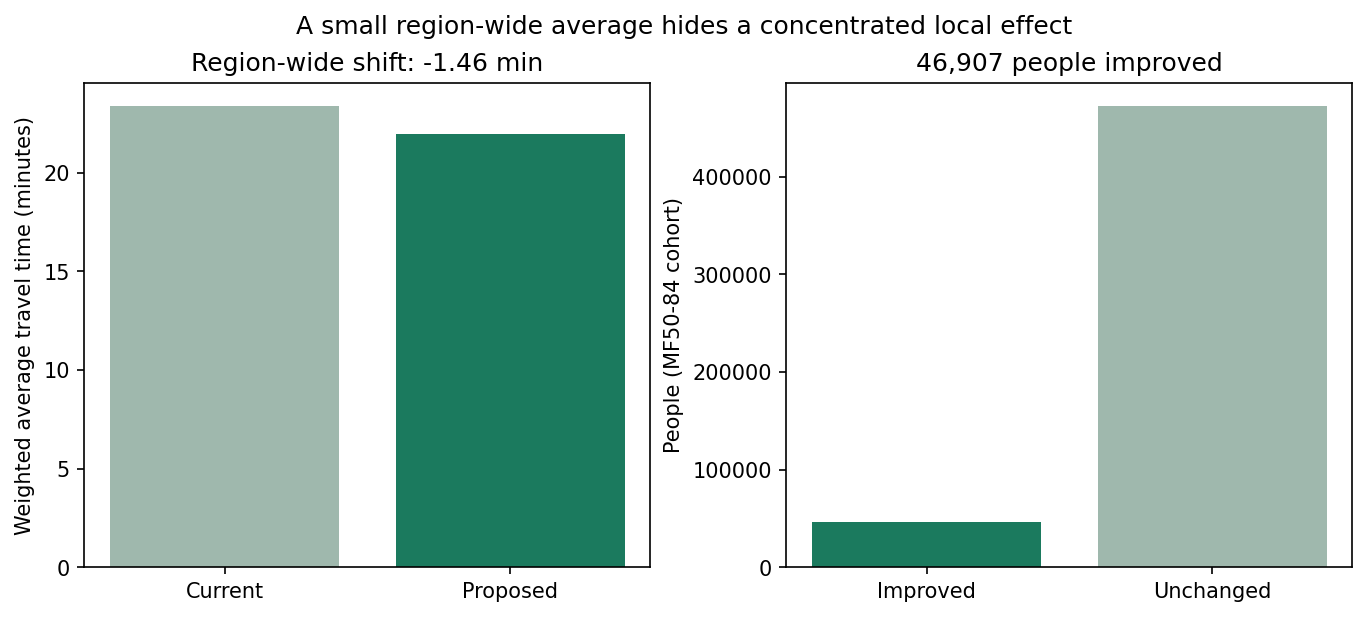
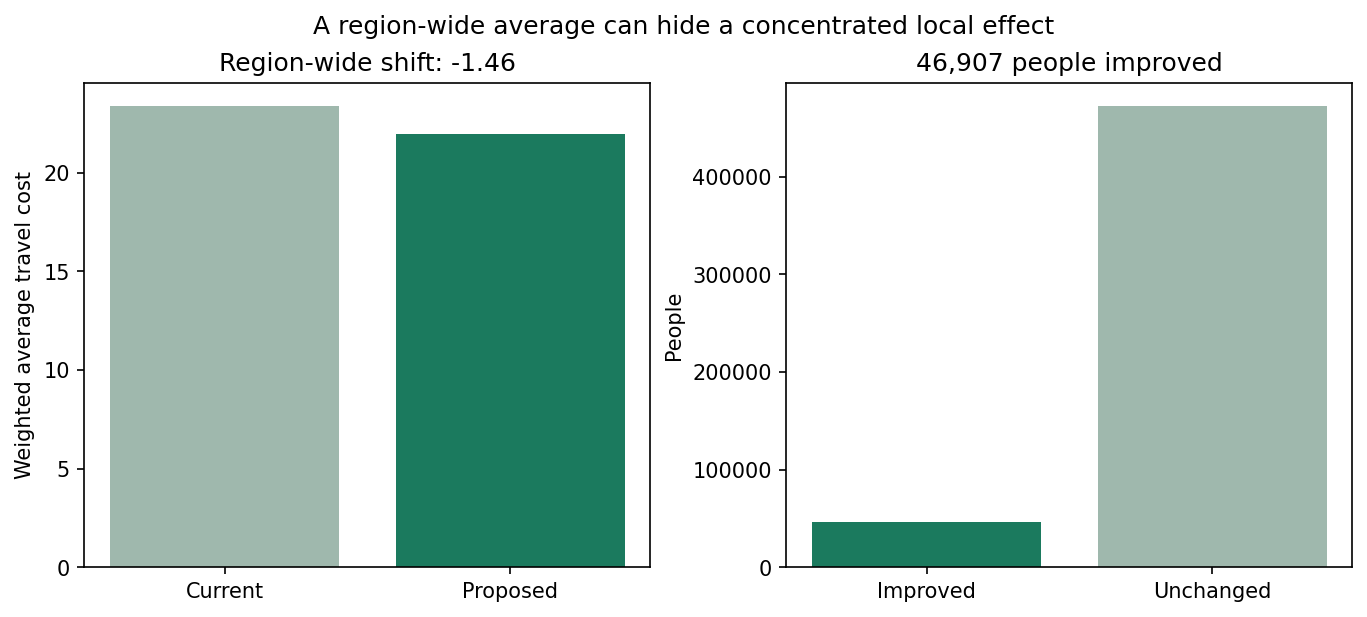
Add SolutionComparator.plot_population_impact_summary()
Extracts the population_impact notebook's hand-rolled two-panel bar
chart (region-wide weighted_average shift vs. per-region impact) into
a reusable plotting method, so the "dilution" visualisation isn't
notebook-only boilerplate.

diff --git a/lokigi/mixins/solution_comparator_plots.py b/lokigi/mixins/solution_comparator_plots.py
@@ -1,4 +1,8 @@
+import matplotlib.pyplot as plt
+import pandas as pd
+
 from lokigi.plot_utils import plot_solution_sets_comparison
+from lokigi.utils import _select_solution
 
 
 class SolutionComparatorPlotsMixin:
@@ -84,3 +88,117 @@ class SolutionComparatorPlotsMixin:
             title_fontsize=title_fontsize,
             **shared_plot_kwargs,
         )
+
+    def plot_population_impact_summary(
+        self,
+        by="demand",
+        matrix=None,
+        demand=None,
+        meaningful_change_threshold=0.0,
+        config_a=None,
+        config_b=None,
+        colors=("#9fb8ad", "#1b7a5e"),
+        figsize=(9, 4),
+        title="default",
+        ax=None,
+    ):
+        """
+        Two-panel bar chart pairing `population_impact_summary()`'s
+        region-wide and per-region views: the `weighted_average` shift
+        between `set_a` (baseline) and `set_b` (candidate) on the left,
+        against how many people (or regions) actually experienced a
+        change on the right. Makes visible the "dilution" a region-wide
+        average alone can hide -- a large, genuinely local effect can
+        move `weighted_average` by very little once averaged across
+        everyone else who is unaffected by it.
+
+        Parameters
+        ----------
+        by : {"demand", "regions"}, default "demand"
+            Whether the right-hand panel counts people
+            (`demand_improved`/`demand_unchanged`, demand-weighted) or
+            regions (`regions_improved`/`regions_unchanged`). "demand"
+            raises `ValueError` if no demand data is registered on the
+            problem, matching `site_allocation_summary()`'s `by="demand"`
+            behaviour; "regions" always works.
+        matrix, demand, meaningful_change_threshold, config_a, config_b
+            Passed straight through to `population_impact_summary()`.
+        colors : (str, str), default ("#9fb8ad", "#1b7a5e")
+            `(unchanged_color, changed_color)`. The left panel always
+            colours `set_a` with `unchanged_color` and `set_b` with
+            `changed_color`; the right panel colours the "improved" bar
+            with `changed_color` and "unchanged" with `unchanged_color`.
+        figsize : tuple, default (9, 4)
+            Figure size, ignored if `ax` is given.
+        title : str, default "default"
+            Overall figure title. If "default", an automatic title is
+            generated.
+        ax : (matplotlib.axes.Axes, matplotlib.axes.Axes), optional
+            A pair of existing Axes to draw the two panels into instead
+            of creating a new figure -- e.g. to embed this as two panels
+            of a larger layout.
+
+        Returns
+        -------
+        (matplotlib.figure.Figure, (matplotlib.axes.Axes, matplotlib.axes.Axes))
+        """
+        if by not in ("demand", "regions"):
+            raise ValueError(f"by must be 'demand' or 'regions', got {by!r}.")
+
+        config_a = config_a or {"solution_rank": 1}
+        config_b = config_b or {"solution_rank": 1}
+
+        solution_a = _select_solution(self.set_a.solution_df, **config_a)
+        solution_b = _select_solution(self.set_b.solution_df, **config_b)
+        weighted_average_a = solution_a.iloc[0]["weighted_average"]
+        weighted_average_b = solution_b.iloc[0]["weighted_average"]
+
+        impact = self.population_impact_summary(
+            matrix=matrix,
+            demand=demand,
+            meaningful_change_threshold=meaningful_change_threshold,
+            config_a=config_a,
+            config_b=config_b,
+        )
+
+        if by == "demand" and pd.isna(impact["total_demand"]):
+            raise ValueError(
+                "by='demand' requires demand data to be registered on the "
+                "problem -- call add_demand(), or pass by='regions' to "
+                "count regions instead."
+            )
+
+        changed_key = "demand_improved" if by == "demand" else "regions_improved"
+        unchanged_key = "demand_unchanged" if by == "demand" else "regions_unchanged"
+        y_label = "People" if by == "demand" else "Regions"
+
+        unchanged_color, changed_color = colors
+
+        if ax is None:
+            fig, axes = plt.subplots(ncols=2, figsize=figsize, constrained_layout=True)
+        else:
+            axes = ax
+            fig = axes[0].get_figure()
+
+        axes[0].bar(
+            [self.labels[0], self.labels[1]],
+            [weighted_average_a, weighted_average_b],
+            color=[unchanged_color, changed_color],
+        )
+        axes[0].set_ylabel("Weighted average travel cost")
+        axes[0].set_title(f"Region-wide shift: {weighted_average_b - weighted_average_a:+.2f}")
+
+        axes[1].bar(
+            ["Improved", "Unchanged"],
+            [impact[changed_key], impact[unchanged_key]],
+            color=[changed_color, unchanged_color],
+        )
+        axes[1].set_ylabel(y_label)
+        axes[1].set_title(f"{impact[changed_key]:,.0f} {y_label.lower()} improved")
+
+        if title == "default":
+            title = "A region-wide average can hide a concentrated local effect"
+        if title:
+            fig.suptitle(title)
+
+        return fig, axes

diff --git a/tests/test_plotting_smoke.py b/tests/test_plotting_smoke.py
@@ -509,3 +509,40 @@ def test_plot_solution_sets_comparison_handles_every_rank(solutions):
         [{"solution_rank": 2}, {"solution_rank": 3}],
     )
     assert figure is not None
+
+
+# --- SolutionComparator.plot_population_impact_summary ---------------------
+
+
+@pytest.fixture
+def population_impact_comparator(plottable_problem):
+    from lokigi.site_solutions import SolutionComparator
+
+    baseline = plottable_problem.evaluate_baseline(site_names=["Site_A"])
+    candidate = plottable_problem.evaluate_baseline(site_names=["Site_A", "Site_B"])
+    return SolutionComparator(baseline, candidate, labels=("Current", "Proposed"))
+
+
+def test_plot_population_impact_summary_runs_and_renders(population_impact_comparator):
+    fig, axes = population_impact_comparator.plot_population_impact_summary()
+    assert fig is not None
+    assert len(axes) == 2
+    fig.canvas.draw()
+
+
+def test_plot_population_impact_summary_by_regions(population_impact_comparator):
+    fig, axes = population_impact_comparator.plot_population_impact_summary(by="regions")
+    assert fig is not None
+    fig.canvas.draw()
+
+
+def test_plot_population_impact_summary_invalid_by_raises(population_impact_comparator):
+    with pytest.raises(ValueError, match="by must be"):
+        population_impact_comparator.plot_population_impact_summary(by="nonsense")
+
+
+def test_plot_population_impact_summary_reuses_given_axes(population_impact_comparator):
+    fig, axes = plt.subplots(ncols=2)
+    out_fig, out_axes = population_impact_comparator.plot_population_impact_summary(ax=axes)
+    assert out_fig is fig
+    assert out_axes is axes

diff --git a/HISTORY.md b/HISTORY.md
@@ -5,6 +5,7 @@
     - Add `SolutionComparator.population_impact_summary()`, a per-demand-location diff of `set_b` (candidate) against `set_a` (baseline): `demand_improved`/`demand_worsened`/`demand_unchanged`, `regions_improved`/`regions_worsened`/`regions_unchanged`, `mean_reduction_among_improved`, `mean_increase_among_worsened`, `max_reduction`, `max_increase`, `proportion_demand_improved`/`proportion_demand_worsened`, and `total_demand`. Takes `matrix=`/`demand=` to diff a registered secondary travel matrix or demand scenario instead of the primary, and a `meaningful_change_threshold` (default `0.0`) below which a region counts as unchanged rather than improved/worsened. All magnitudes are reported positive, with direction carried by the bucket name rather than by sign
     - Add `solve(baseline=...)`, threading the same comparison through every enumerated combination automatically: `None` (default, off, `solution_df`'s column set is unchanged), `True` (build from `required_sites_col`, inheriting this call's objective/weights/threshold), or a one-solution `SiteSolutionSet` (typically from `evaluate_baseline()`). The baseline is evaluated once per `solve()` call, not once per combination, so the added cost is negligible for every search strategy (brute-force, greedy, GRASP)
     - Secondary travel matrices and secondary demand scenarios get the demand-weighted subset of columns (`demand_improved__<label>`, etc.) by default; `full_secondary_metrics=True` also adds the region-count and max-change variants for secondary travel matrices, matching the existing "core metrics by default" convention
+    - Add `SolutionComparator.plot_population_impact_summary()`, a two-panel bar chart pairing the region-wide `weighted_average` shift against `population_impact_summary()`'s per-region view, so the "dilution" is visible at a glance. `by="demand"` (default) counts people; `by="regions"` counts LSOAs. Takes an `ax=` pair to embed the two panels in a larger layout
 
 ## v0.8.1
 
